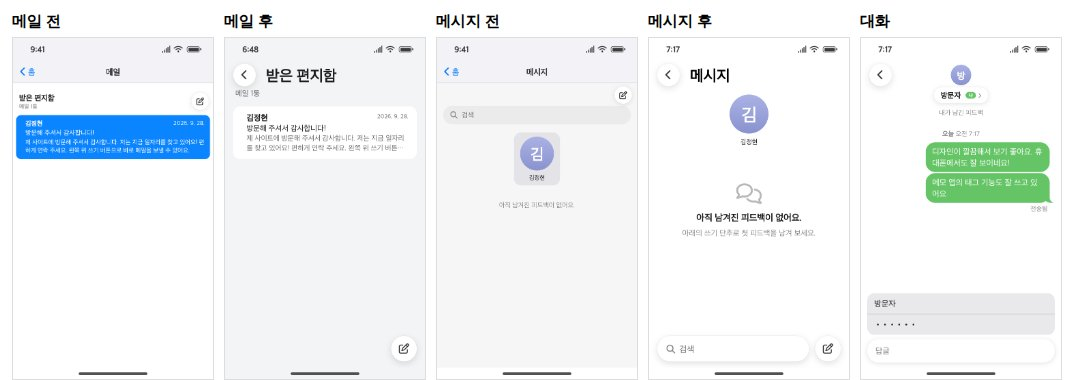
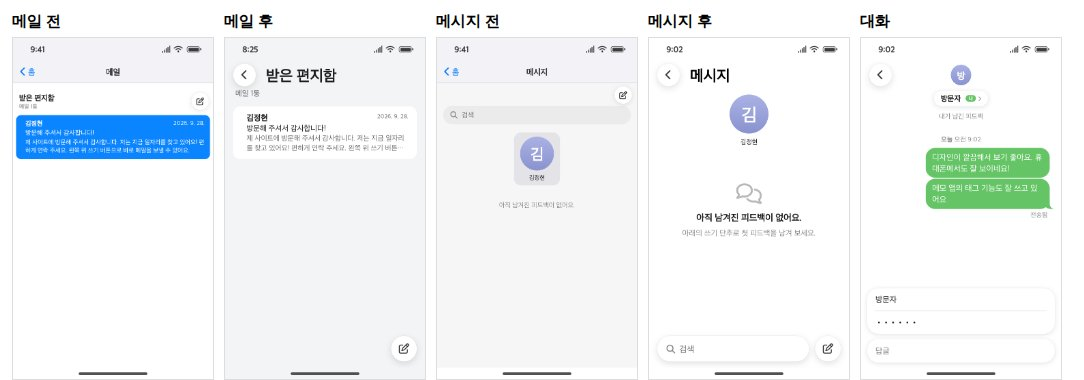
style(messages): 휴대폰 이름·비밀번호 칸을 입력 알약과 맞추고 대화 머리 여백 넓히기

diff --git a/apps/react/src/apps/messages/Messages.css b/apps/react/src/apps/messages/Messages.css
@@ -810,7 +810,17 @@
 
 /* 이름 알약은 떠 있는 단추 줄 가운데, 그 아래 설명은 단추를 비켜 화면 폭을 다 쓴다 */
 .container.mobile .messages-chat-header {
-	padding: 8px 16px;
+	gap: 10px;
+	padding: 8px 16px 12px;
+}
+
+/* 새 피드백: 이름 알약을 떠 있는 단추 줄(위 6~50px) 가운데에 맞추고, 설명은 그 줄 아래로 띄운다 */
+.container.mobile .messages-chat-header:has(.messages-cancel) {
+	padding-top: 12px;
+}
+
+.container.mobile .messages-chat-header:has(.messages-cancel) .messages-chat-subtitle {
+	margin-top: 12px;
 }
 
 /* 대화 머리와 시간·보낸 이: 넓은 창의 11px는 휴대폰에서 작다 */
@@ -824,7 +834,7 @@
 }
 
 .container.mobile .messages-chat-subtitle {
-	margin-top: 6px;
+	line-height: 1.4;
 	text-align: center;
 }
 
@@ -846,21 +856,23 @@
 }
 
 .container.mobile .messages-composer {
-	padding: 6px 12px 10px;
+	gap: 10px;
+	padding: 8px 12px 10px;
 }
 
-/* 이름·비밀번호: 입력 알약 위의 둥근 카드 하나에 두 줄 (iOS 입력 묶음처럼) */
+/* 이름·비밀번호: 아래 입력 알약과 같은 바탕·그림자의 둥근 카드 하나에 두 줄 */
 .container.mobile .messages-identity {
 	flex-direction: column;
 	gap: 0;
-	padding: 0;
+	padding: 0 16px;
 	overflow: hidden;
-	border-radius: 14px;
-	background-color: var(--messages-received);
+	border-radius: 22px;
+	background-color: var(--messages-float-bg);
+	box-shadow: var(--messages-float-shadow);
 }
 
 .container.mobile .messages-identity input {
-	padding: 10px 14px;
+	padding: 12px 0;
 	border: none;
 	font-size: 16px;
 }

diff --git a/apps/react/src/apps/memo/content/mobile-apps-ios-style.md b/apps/react/src/apps/memo/content/mobile-apps-ios-style.md
@@ -49,7 +49,7 @@ summary: 메모의 휴대폰 화면을 iOS처럼 바꾸고 나니 다른 앱만 
 ## 앱마다
 
 - **메일**: 큰 제목 '받은 편지함'과 메일 수, 흰 카드 목록. 제목 옆의 쓰기 단추 대신 아래 오른쪽에 떠 있는 새로운 메시지
-- **메시지**: iOS 메시지처럼 흰 바탕. 큰 제목 '메시지', 고정 대화는 큰 아바타만(고른 것을 칠하지 않는다), 대화 줄은 52px 아바타와 줄 끝의 ›. 빈 목록은 처음에 안내 한 줄만 고정 대화 바로 아래에 두었더니, 위의 큰 아바타에 붙어 보였다. iOS의 빈 화면처럼 한참 아래에 아이콘, 굵은 제목, 쓰기 단추 안내를 두었다. 위의 검색 칸과 쓰기 단추 대신 아래에 검색 알약과 새 피드백. 대화 화면의 이름·비밀번호는 입력 알약 위의 둥근 카드 하나로 묶었다. 입력 칸 글자는 16px 이상이다. iOS Safari는 16px보다 작은 입력 칸을 누르면 화면을 확대한다
+- **메시지**: iOS 메시지처럼 흰 바탕. 큰 제목 '메시지', 고정 대화는 큰 아바타만(고른 것을 칠하지 않는다), 대화 줄은 52px 아바타와 줄 끝의 ›. 빈 목록은 처음에 안내 한 줄만 고정 대화 바로 아래에 두었더니, 위의 큰 아바타에 붙어 보였다. iOS의 빈 화면처럼 한참 아래에 아이콘, 굵은 제목, 쓰기 단추 안내를 두었다. 위의 검색 칸과 쓰기 단추 대신 아래에 검색 알약과 새 피드백. 대화 화면의 이름·비밀번호는 입력 알약 위의 둥근 카드 하나로 묶었다. 처음에는 카드를 받은 말풍선 색(회색)으로 칠했더니 흰 입력 알약 옆에서 혼자 튀었다. 입력 알약과 같은 흰 바탕과 그림자로 바꿨다. 대화 머리의 아바타·이름 알약·설명 사이도 4px에서 10px로 띄웠고, 새 피드백의 설명은 떠 있는 단추 줄 아래로 내렸다. 입력 칸 글자는 16px 이상이다. iOS Safari는 16px보다 작은 입력 칸을 누르면 화면을 확대한다
 - **암호·단축어**: 떠 있는 뒤로 가기와 큰 제목, 회색 바탕
 
 시스템 설정은 휴대폰에서 항목(계정, 화면 모드, 배경화면, 사운드)을 위쪽 탭으로 늘어놓고 있었다. iOS 설정처럼 큰 제목 '설정' 아래 흰 카드 목록으로 바꾸고, 항목을 누르면 그 화면으로 넘어가 떠 있는 뒤로 가기로 돌아오게 했다. 항목 아이콘은 iOS처럼 색칠한 둥근 네모다. 넓은 창에서는 예전처럼 왼쪽 목록과 오른쪽 화면이 함께 보인다.
